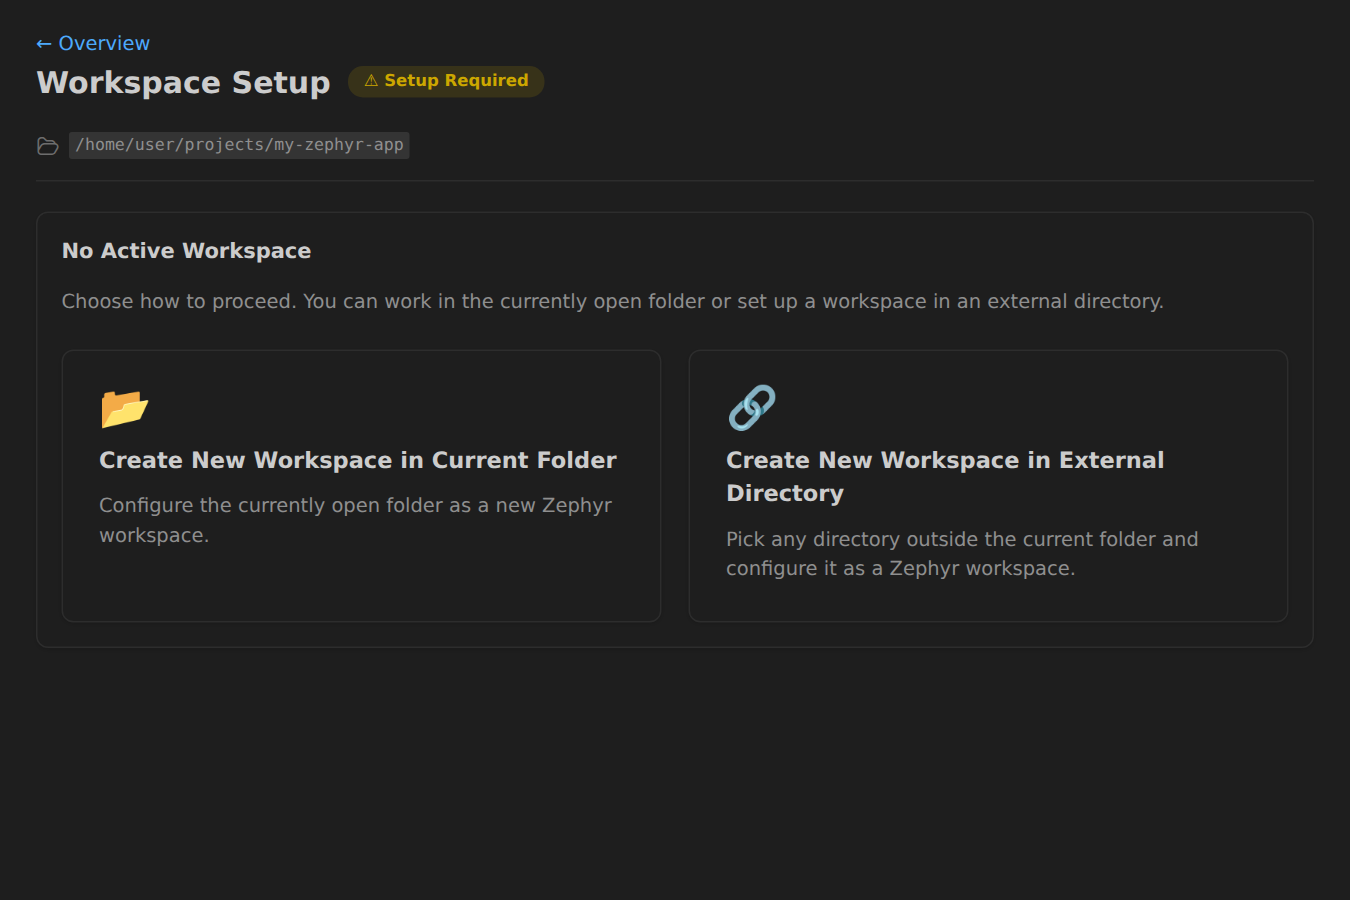
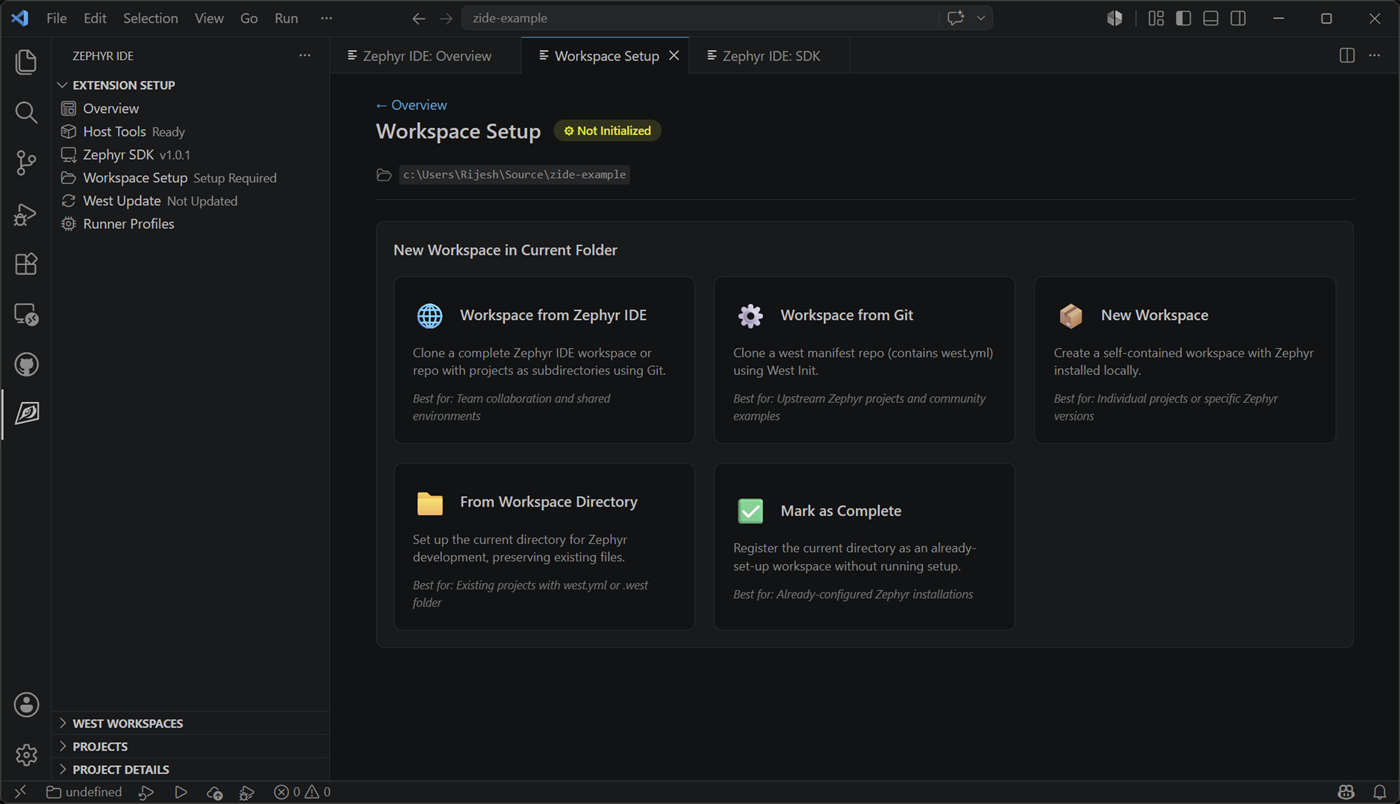
New screenshots

diff --git a/docs/src/content/docs/user-guide/other-features.md b/docs/src/content/docs/user-guide/other-features.md
@@ -16,15 +16,15 @@ After each build, run `Zephyr IDE: Zephyr Dashboard Report` to refresh the dashb
 
 **Build Summary** — key build attributes (Zephyr version, board, toolchain, `west build` command), a Memory Summary table, and a colour-coded Memory Breakdown bar chart:
 
-![Build Dashboard — Build Summary](https://raw.githubusercontent.com/mylonics/zephyr-ide/main/docs/media/build_dashboard_summary.png)
+![Build Dashboard — Build Summary](https://raw.githubusercontent.com/mylonics/zephyr-ide/develop/docs/media/build_summary.png)
 
 **Memory Report** — interactive sunburst chart that drills down into RAM and ROM usage by source-tree path. Switch between Total, RAM, ROM, and region-specific tabs; hover or click any segment to inspect the symbol hierarchy and exact byte counts:
 
-![Build Dashboard — Memory Report](https://raw.githubusercontent.com/mylonics/zephyr-ide/main/docs/media/build_dashboard_memory_report.png)
+![Build Dashboard — Memory Report](https://raw.githubusercontent.com/mylonics/zephyr-ide/develop/docs/media/memory_report.png)
 
 **Kconfig** — interactive browser for the build's resolved Kconfig tree. Filter by symbol name, toggle between Tree and Changes modes, and click any symbol to see its type, value, help text, and defining file. Use **Save fragment** to export a `.conf` snippet of your changes:
 
-![Build Dashboard — Kconfig](https://raw.githubusercontent.com/mylonics/zephyr-ide/main/docs/media/build_dashboard_kconfig.png)
+![Build Dashboard — Kconfig](https://raw.githubusercontent.com/mylonics/zephyr-ide/develop/docs/media/kconfig_editor.png)
 
 ### ROM / RAM Reports
 
@@ -41,13 +41,13 @@ Stand-alone text reports generated in the terminal:
 
 The IDE allows modifying the west and cmake arguments per build. It allows the user to provide runner arguments, and specify DTS overlay and KConfig files per project or build.
 
-![Demonstrating KConfig](https://raw.githubusercontent.com/mylonics/zephyr-ide/main/docs/media/kConfig_dtc.gif)
+![Demonstrating KConfig](https://raw.githubusercontent.com/mylonics/zephyr-ide/develop/docs/media/kConfig_dtc.gif)
 
 ### Menu Config and GUI Config
 
 The Zephyr Menu Config or GUI Config may be run from the active project panel. In the project config panel, by default, a Menu Config option is available. This can be changed to GUI Config by adding `"zephyr-ide.useGuiConfig": true` to settings.json.
 
-![Demonstrating MenuConfig](https://raw.githubusercontent.com/mylonics/zephyr-ide/main/docs/media/demonstrating_menu_config_debug_binding.gif)
+![Demonstrating MenuConfig](https://raw.githubusercontent.com/mylonics/zephyr-ide/develop/docs/media/demonstrating_menu_config_debug_binding.gif)
 
 ## Automatic Project Targeting
 
@@ -60,7 +60,7 @@ When you open a file, the extension can automatically switch the active project 
 
 Custom west commands may be run using the inbuilt Zephyr IDE Terminal.
 
-![West Terminal](https://raw.githubusercontent.com/mylonics/zephyr-ide/main/docs/media/west_terminal.gif)
+![West Terminal](https://raw.githubusercontent.com/mylonics/zephyr-ide/develop/docs/media/west_terminal.gif)
 
 ## Next Steps
 

diff --git a/docs/src/content/docs/user-guide/building-debugging.md b/docs/src/content/docs/user-guide/building-debugging.md
@@ -7,7 +7,7 @@ Build, flash, and debug commands are available from the Active Project Panel, th
 
 ## Building
 
-![Taskbar Buttons](https://raw.githubusercontent.com/mylonics/zephyr-ide/main/docs/media/taskbar_buttons.gif)
+![Taskbar Buttons](https://raw.githubusercontent.com/mylonics/zephyr-ide/develop/docs/media/taskbar_buttons.gif)
 
 ### Sysbuild Targets
 
@@ -57,7 +57,7 @@ To connect to an **already-running** GDB server instead of having Zephyr IDE spa
 
 Use `westArgs` to pass through any additional runner-specific flags that are not modeled explicitly.
 
-![Setting Up Launch Configuration](https://raw.githubusercontent.com/mylonics/zephyr-ide/main/docs/media/setting_up_debug.gif)
+![Setting Up Launch Configuration](https://raw.githubusercontent.com/mylonics/zephyr-ide/develop/docs/media/setting_up_debug.gif)
 
 ## Runner Profiles (Flash + Debug)
 
@@ -72,6 +72,8 @@ Each build can optionally reference one **active Runner Profile** that bundles t
 When **no** profile is active on a build, all three slots fall back to `auto`. This is the default for newly-created builds — `Flash` / `Debug` / `Build and Debug` / `Debug Attach` just work using whatever Zephyr recorded in `runners.yaml`.
 
 Profiles can be defined once (e.g. a Black Magic Probe wired to `/dev/ttyACM0`, or an OpenOCD ST-Link configuration) and shared across builds. The dedicated **`Zephyr IDE: Open Runner Profile Panel`** command gives you a full CRUD UI for both workspace-scope (`.vscode/zephyr-ide.json#runnerProfiles`) and user-scope (`zephyr-ide.runnerProfiles` setting) profiles.
+
+![Runner Profiles Panel](https://raw.githubusercontent.com/mylonics/zephyr-ide/develop/docs/media/runner_profiles.png)
 
 The **Profile…** button in the Project Build panel opens a QuickPick to select the active profile for the build. Per-build extra-argument overrides can be added with the pencil icon next to any `runner`-kind slot in the Project Build panel.
 
@@ -159,7 +161,7 @@ The IDE provides commands that help a user develop launch configurations. These 
 
 The `ask` field on `zephyr-ide-cortex` / `zephyr-ide-west` configurations controls build selection at launch. Set `ask: "askBuild"` to prompt for a build configuration each time the session starts, or `ask: "askBoth"` to prompt for project and build. The default (`ask: "auto"`) silently uses the active project and build shown in the taskbar and Active Project panel. Alternatively, the `zephyr-ide.select-active-build-path` input command can be used in a `cortex-debug` configuration's `executable` field to get the same build-picker behaviour.
 
-![IDE for Zephyr Debug Commands](https://raw.githubusercontent.com/mylonics/zephyr-ide/main/docs/media/setting_up_debug2.gif)
+![IDE for Zephyr Debug Commands](https://raw.githubusercontent.com/mylonics/zephyr-ide/develop/docs/media/setting_up_debug2.gif)
 
 ## Next Steps
 

diff --git a/README.md b/README.md
@@ -1,6 +1,6 @@
 # IDE for Zephyr
 
-<img src="https://raw.githubusercontent.com/mylonics/zephyr-ide/main/docs/media/zephyr-ide_branding.png" alt="IDE for Zephyr — VS Code extension for Zephyr RTOS embedded development" width="50%"/>
+<img src="https://raw.githubusercontent.com/mylonics/zephyr-ide/develop/docs/media/zephyr-ide_branding.png" alt="IDE for Zephyr — VS Code extension for Zephyr RTOS embedded development" width="50%"/>
 
 A Visual Studio Code extension for [Zephyr RTOS](https://zephyrproject.org/) embedded firmware development. Build, flash, and debug Zephyr projects for ARM Cortex-M, RISC-V, Xtensa, and x86 targets — including nRF52, nRF5340, STM32, ESP32, Raspberry Pi Pico, and any other board supported by Zephyr — without leaving VS Code. Automates host tool installation, Zephyr SDK management via `west sdk`, west workspace setup, and Cortex-Debug integration so you can go from zero to a running build in minutes.
 
@@ -12,7 +12,11 @@ Install from the [Visual Studio Code Marketplace](https://marketplace.visualstud
 
 You can read about the motivation behind the project [here](https://mylonics.com/blog/zephyr-ide/).
 
-![IDE for Zephyr VS Code extension — setup panel, project tree view, and build dashboard](https://raw.githubusercontent.com/mylonics/zephyr-ide/main/docs/media/overview.png)
+![IDE for Zephyr VS Code extension — main project build view](https://raw.githubusercontent.com/mylonics/zephyr-ide/develop/docs/media/main_build.png)
+
+![IDE for Zephyr VS Code extension — project and build details](https://raw.githubusercontent.com/mylonics/zephyr-ide/develop/docs/media/build_and_project_details.png)
+
+![IDE for Zephyr VS Code extension — runner profile management](https://raw.githubusercontent.com/mylonics/zephyr-ide/develop/docs/media/runner_profiles.png)
 
 ## Why IDE for Zephyr
 

diff --git a/docs/src/content/docs/user-guide/project-setup.md b/docs/src/content/docs/user-guide/project-setup.md
@@ -9,7 +9,7 @@ To set up a project, the project panel provides the ability to add a preexisting
 
 In the following example, the blinky project is added from the Zephyr sample folder. An STM32F4 build is added to the project.
 
-![Adding Projects and Build](https://raw.githubusercontent.com/mylonics/zephyr-ide/main/docs/media/adding_project_and_build.gif)
+![Adding Projects and Build](https://raw.githubusercontent.com/mylonics/zephyr-ide/develop/docs/media/adding_project_and_build.gif)
 
 ## Multiple Builds
 
@@ -17,13 +17,15 @@ Each project can have multiple builds associated with it. Each build may also ha
 
 In this example, a Raspberry PI Pico board/build is added to the blinky project. The default runner is added to the original build and the UF2 runner is added to the Pico build.
 
-![Adding More Builds](https://raw.githubusercontent.com/mylonics/zephyr-ide/main/docs/media/adding_additional_build.gif)
+![Adding More Builds](https://raw.githubusercontent.com/mylonics/zephyr-ide/develop/docs/media/adding_additional_build.gif)
+
+![Project and Build Details](https://raw.githubusercontent.com/mylonics/zephyr-ide/develop/docs/media/build_and_project_details.png)
 
 ## Project Configuration File
 
 The project configuration is stored in a human-readable JSON file, which allows users to manually modify the projects or commit them to a repo to share the workspace with team members.
 
-![Project JSON](https://raw.githubusercontent.com/mylonics/zephyr-ide/main/docs/media/projects_json.png)
+![Project JSON](https://raw.githubusercontent.com/mylonics/zephyr-ide/develop/docs/media/projects_json.png)
 
 ## Custom Build Folder
 

diff --git a/docs/src/content/docs/getting-started/workspace-configuration.md b/docs/src/content/docs/getting-started/workspace-configuration.md
@@ -3,11 +3,11 @@ title: Workspace Configuration
 description: Set up a Zephyr west workspace in VS Code — clone from Git, create a standard workspace, use west.yml templates, or connect to an existing Zephyr installation with IDE for Zephyr.
 ---
 
-![Workspace Setup](https://raw.githubusercontent.com/mylonics/zephyr-ide/main/docs/media/workspace_setup.png)
+![Workspace Setup](https://raw.githubusercontent.com/mylonics/zephyr-ide/develop/docs/media/workspace_setup.png)
 
 Click the Workspace card to configure your west workspace. Choose to set up a workspace in the current VS Code folder or an external directory.
 
-![Workspace Setup Options](https://raw.githubusercontent.com/mylonics/zephyr-ide/main/docs/media/unconfigured_workspace_panel.png)
+![Workspace Setup Options](https://raw.githubusercontent.com/mylonics/zephyr-ide/develop/docs/media/unconfigured_workspace_panel.png)
 
 ## Workspace Setup Methods
 
@@ -80,7 +80,7 @@ workspace/
 
 Once configured, the workspace panel will display your workspace information and allow you to directly update the west.yml file:
 
-![Configured Workspace Panel](https://raw.githubusercontent.com/mylonics/zephyr-ide/main/docs/media/configured_workspace_panel.png)
+![Configured Workspace Panel](https://raw.githubusercontent.com/mylonics/zephyr-ide/develop/docs/media/configured_workspace_panel.png)
 
 ## Workspace Lifecycle and Recovery
 

diff --git a/docs/src/content/docs/whats-new-4-0.md b/docs/src/content/docs/whats-new-4-0.md
@@ -44,15 +44,15 @@ The Build Dashboard opens via **`Zephyr IDE: Open Build Dashboard`** after a suc
 
 **Summary** — key build facts at a glance: board, build folder, build time, active Kconfig fragments, and a one-click rebuild control.
 
-![Build Dashboard Summary](https://raw.githubusercontent.com/mylonics/zephyr-ide/main/docs/media/build_dashboard_summary.png)
+![Build Dashboard Summary](https://raw.githubusercontent.com/mylonics/zephyr-ide/develop/docs/media/build_summary.png)
 
 **Memory report** — per-region RAM and ROM usage pulled live from the build, with a refresh button to update after a rebuild.
 
-![Build Dashboard Memory Report](https://raw.githubusercontent.com/mylonics/zephyr-ide/main/docs/media/build_dashboard_memory_report.png)
+![Build Dashboard Memory Report](https://raw.githubusercontent.com/mylonics/zephyr-ide/develop/docs/media/memory_report.png)
 
 **Kconfig editor** — browse the full resolved Kconfig tree for the build, edit symbol values, and save changes as a Kconfig fragment that automatically attaches to the build or project.
 
-![Build Dashboard Kconfig Editor](https://raw.githubusercontent.com/mylonics/zephyr-ide/main/docs/media/build_dashboard_kconfig.png)
+![Build Dashboard Kconfig Editor](https://raw.githubusercontent.com/mylonics/zephyr-ide/develop/docs/media/kconfig_editor.png)
 
 ## Everything from 3.0
 

diff --git a/docs/src/content/docs/getting-started/host-tools.md b/docs/src/content/docs/getting-started/host-tools.md
@@ -3,7 +3,7 @@ title: Host Tools Installation
 description: Automatically install CMake, Python 3, Ninja, Devicetree Compiler, and gcc for Zephyr RTOS development on Ubuntu, Fedora, Arch Linux, Clear Linux, macOS, and Windows with IDE for Zephyr.
 ---
 
-![Host Tools Installation](https://raw.githubusercontent.com/mylonics/zephyr-ide/main/docs/media/host_tool_install.png)
+![Host Tools Installation](https://raw.githubusercontent.com/mylonics/zephyr-ide/develop/docs/media/host_tool_install.png)
 
 Click the Host Tools card to access the Host Tools sub-page. This page helps you install and verify the build dependencies required for Zephyr development.
 

diff --git a/docs/src/content/docs/getting-started/sdk-installation.md b/docs/src/content/docs/getting-started/sdk-installation.md
@@ -3,7 +3,7 @@ title: Zephyr SDK Installation
 description: Install and manage the Zephyr SDK for ARM Cortex-M, RISC-V, x86, and Xtensa architectures using west SDK commands. Multi-version support with IDE for Zephyr in VS Code.
 ---
 
-![SDK Management](https://raw.githubusercontent.com/mylonics/zephyr-ide/main/docs/media/sdk_management.png)
+![SDK Management](https://raw.githubusercontent.com/mylonics/zephyr-ide/develop/docs/media/sdk_install.png)
 
 Click the Zephyr SDK Management card to access SDK installation. The SDK provides cross-compilation toolchains for various architectures (ARM, x86, RISC-V, etc.).
 

diff --git a/docs/src/content/docs/user-guide/testing.md b/docs/src/content/docs/user-guide/testing.md
@@ -5,7 +5,7 @@ description: Run Zephyr Twister tests directly from VS Code. Configure test suit
 
 The extension supports running [Twister](https://docs.zephyrproject.org/latest/develop/test/twister.html) tests. Click the beaker icon in the IDE for Zephyr sidebar to access the test panel.
 
-![IDE for Zephyr Twister Testing](https://raw.githubusercontent.com/mylonics/zephyr-ide/main/docs/media/adding_twister_test.gif)
+![IDE for Zephyr Twister Testing](https://raw.githubusercontent.com/mylonics/zephyr-ide/develop/docs/media/adding_twister_test.gif)
 
 ## Adding a Test
 

diff --git a/docs/src/content/docs/getting-started/setup-panel.md b/docs/src/content/docs/getting-started/setup-panel.md
@@ -11,7 +11,7 @@ When you first open a workspace in VS Code with IDE for Zephyr installed, you ca
 
 The Setup Panel provides a card-based interface with three configuration areas:
 
-![Overview](https://raw.githubusercontent.com/mylonics/zephyr-ide/main/docs/media/overview.png)
+![Overview](https://raw.githubusercontent.com/mylonics/zephyr-ide/develop/docs/media/overview.png)
 
 1. **Host Tools** - Install and verify build tools required for Zephyr development
 2. **Zephyr SDK Management** - Install and manage Zephyr SDK for different architectures
